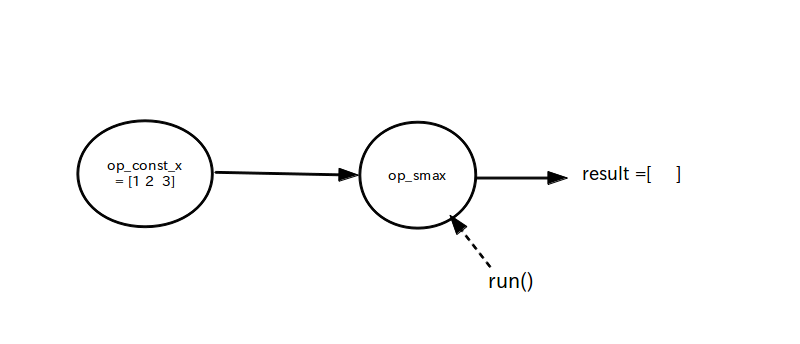
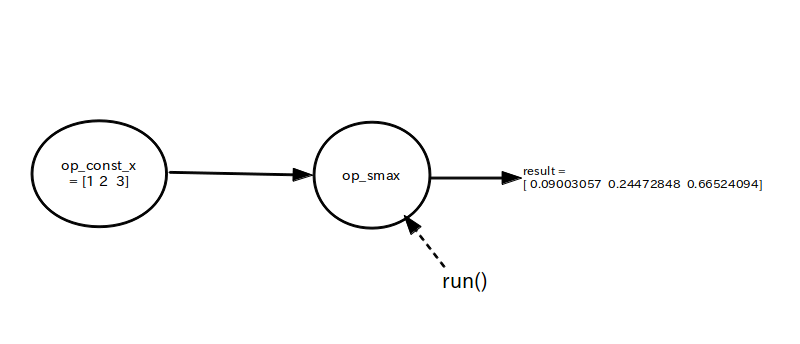
dlearning 更新

diff --git a/docs/activity/dlearning/text01/page04.html b/docs/activity/dlearning/text01/page04.html
@@ -105,7 +105,7 @@ print( result )
 </p>
 
 <p>
-ただし、定数 OP ノードはセッションの途中で最初にセットした値を変更できませんが、変数 OP ノードは途中で変更する事ができます。ただし run する前に初期値で値をリセットしておかないとエラーが出ます。
+定数 OP ノードの場合はセッションの途中で最初にセットした値を変更できませんが、変数 OP ノードは途中で変更する事ができます。ただし run する前に初期値で値をリセットしておかないとエラーが出ます。
 </p>
 
 <p>
@@ -120,7 +120,7 @@ print( result )
 </p>
 
 <p>
-入力テンソル: x ・・・ 初期値(定数値、又はテンソル)
+入力テンソル: x ・・・ 初期値
 <br>
 出力テンソル: 現在値
 </p>
@@ -170,9 +170,9 @@ sess.run( tf.initialize_all_variables() )
 result = sess.run( op_var )
 print( result )
 # 表示結果(乱数なので毎回変わる)
-# [[ 0.  0.]
-#  [ 0.  0.]
-#  [ 0.  0.]]
+#[[ 0.08048159  0.03259621]
+# [ 0.09933039  0.17510985]
+# [-0.0177522  -0.01852487]]
 </pre>
 </div>
 
@@ -450,14 +450,15 @@ f(x) = log(x)、exp(x)、sin(x)、cos(x)、その他色々
 import tensorflow as tf
 sess = tf.Session()
 
-op_const_x = tf.constant( [ 1, 2, 3] )
+op_const_x = tf.constant( [ 1, 2, 3], tf.float32 )
+# tf.float32 は各要素を 32 bit浮動小数として扱うという意味
 
 op_log = tf.log( op_const_x )
 
 result = sess.run( op_log )
 print( result )
 # 表示結果
-# [ ]
+# [ 0.          0.69314718  1.09861231]
 </pre>
 
 <br>
@@ -509,14 +510,16 @@ SoftMax OP ノードはニューラルネットワークの出力層で良く使
 import tensorflow as tf
 sess = tf.Session()
 
-op_const_x = tf.constant( [ 1, 2, 3] )
+op_const_x = tf.constant( [ 1, 2, 3], tf.float32 )
+# tf.float32 は各要素を 32 bit浮動小数として扱うという意味
 
 op_smax = tf.nn.softmax( op_const_x )
 
 result = sess.run( op_smax )
 print( result )
 # 表示結果
-# [ ]  全て足すと 1 になるので、各要素は確率の数字を表している
+# [ 0.09003057  0.24472848  0.66524094]
+# 結果を全て足すと 1 になる → 各要素は確率の数字を表している
 </pre>
 
 <br>
@@ -602,7 +605,7 @@ print( result )
 </p>
 
 <p>
-入力テンソル: x ・・・ 新しい値(定数値、又はテンソル)
+入力テンソル: x ・・・ 新しい値
 <br>
 出力テンソル: x がそのまま出力される
 </p>

diff --git a/docs/index.html b/docs/index.html
@@ -88,6 +88,7 @@ HTML、TeX 等のドキュメントは<a href="https://github.com/tmytokai/open-
 <li><a href="./activity/git">git によるバージョン管理</a></li>
 <li><a href="./activity/unity-basic/">Unity の仕組み</a></li>
 <li><a href="./activity/unity-scratch/">Scratch による Unity プログラミング</a></li>
+<li><a href="./activity/dlearning/">TensorFlow によるディープラーニング</a></li>
 </ul>
 
 <br>

diff --git a/docs/activity/dlearning/index.html b/docs/activity/dlearning/index.html
@@ -20,11 +20,11 @@
 <p>
 時限数: ?
 <br>
-対象年齢: 18〜22歳
+対象年齢: 16〜20歳
 <br>
 教育目的: 教養教育(0%)、技術者育成(100%)
 <br>
-最終更新日: 2016/11/20
+最終更新日: 2016/11/21
 </p>
 
 <h2>目的</h2>
